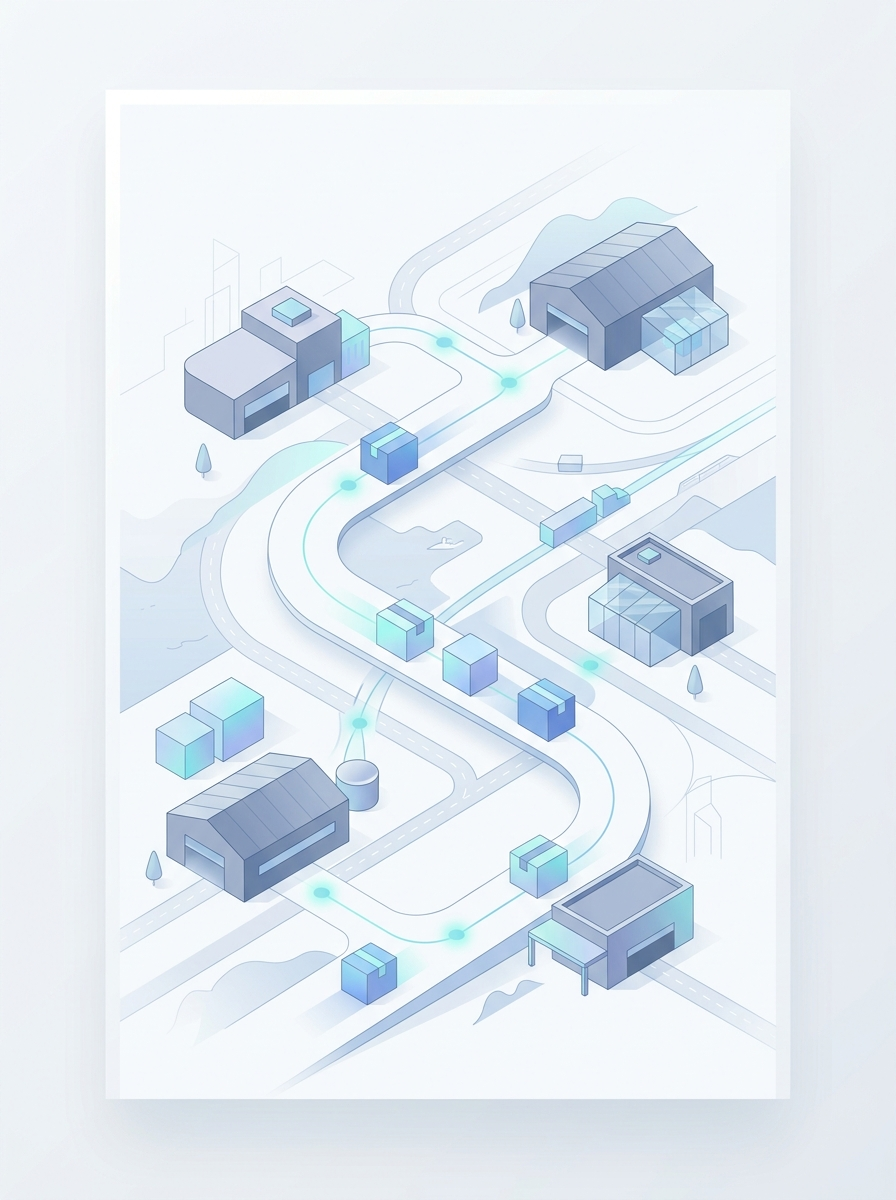
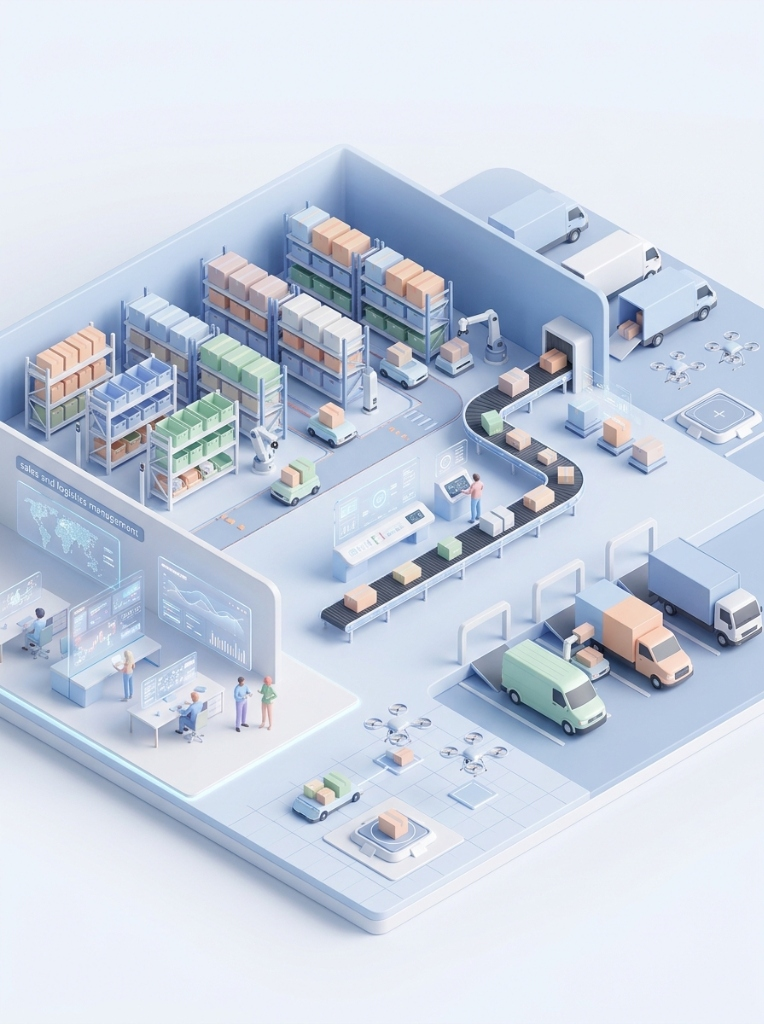
Update poster

diff --git a/src/pages/login-page.tsx b/src/pages/login-page.tsx
@@ -251,7 +251,7 @@ export const LoginPage: React.FC = () => {
         {/* ===================================================================== */}
         {/* CỘT TRÁI: Poster (Chiếm chính xác 50% chiều rộng & 100% chiều cao)     */}
         {/* ===================================================================== */}
-        <div className="relative hidden lg:block w-full h-full bg-slate-100 select-none">
+        <div className="relative hidden lg:block w-full h-full bg-slate-100 select-none overflow-hidden">
           <img
             src={loginPoster}
             alt="LOHA SALES - Hệ thống Quản lý Bán hàng & Kho B2B"
